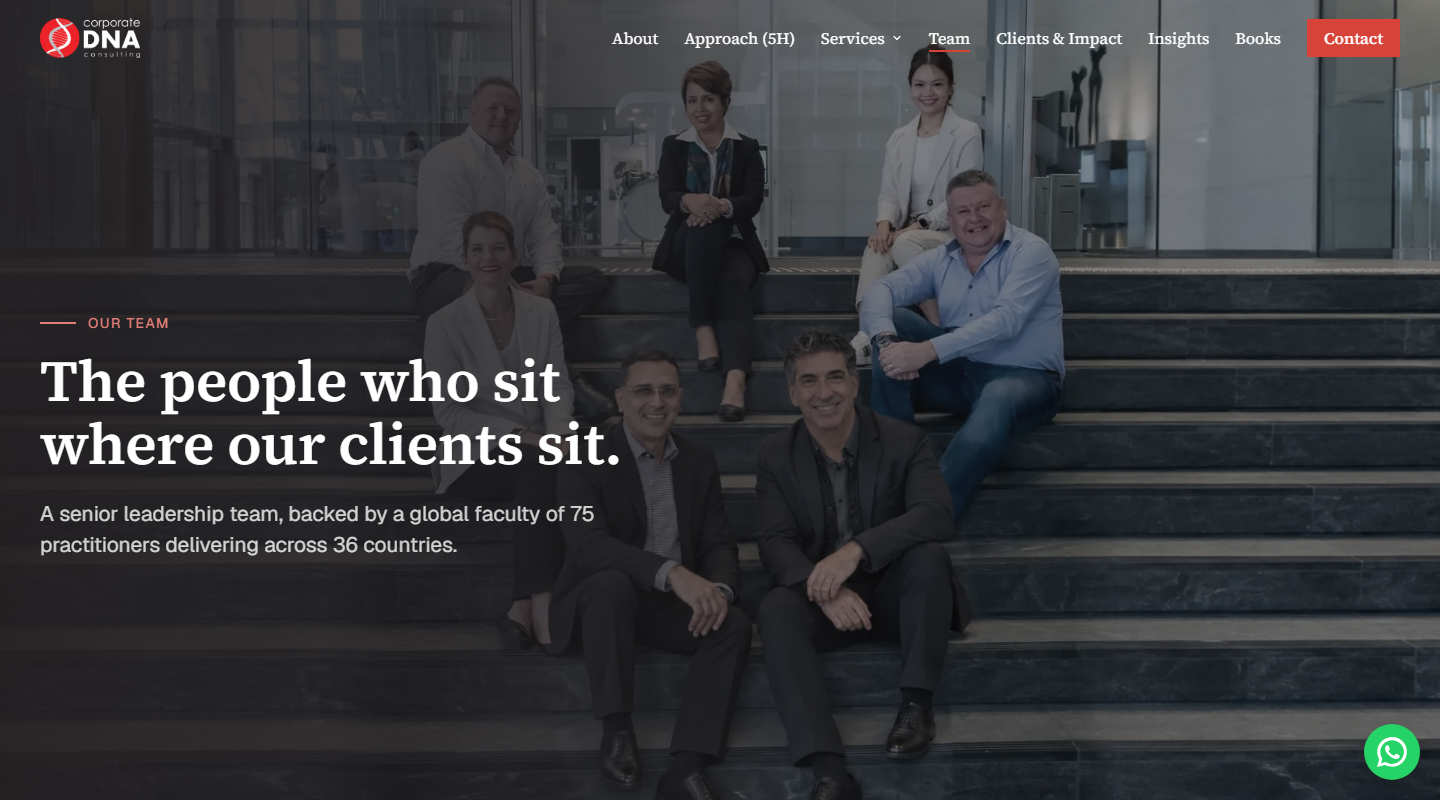
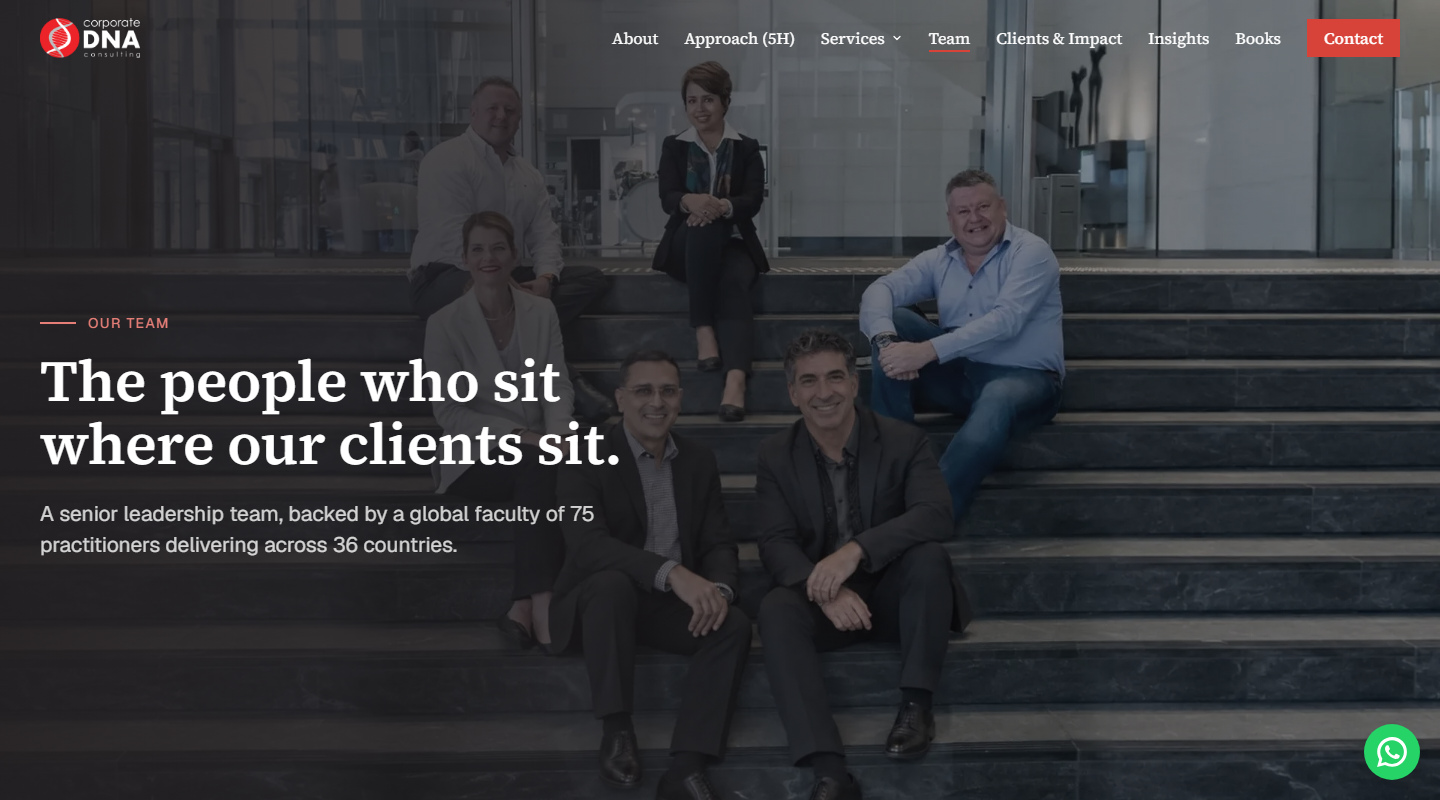
feat(team): o herói passa a ser o retoque com seis na escada
Segunda versão da mesma fotografia no mesmo dia: a pessoa do canto superior
direito saiu, e ficam seis.

⚠ ARQUIVO NOVO (`team-stairs-landscape-six.jpg`) EM VEZ DE SOBRESCREVER, mesma
decisão da foto da Heineken em 15-09. O `next/image` serve a imagem otimizada
por uma URL derivada do caminho e o CDN guarda aquela URL; trocar o conteúdo
mantendo o nome entrega a foto antiga por tempo indefinido — e é o tipo de
defeito que só aparece no celular de quem já visitou.

O `object-top` fica: a fileira de cima continua a 4% do topo do quadro, e é ela
que o `object-cover` come primeiro em janela de laptop. Conferido a 800 e a
700px de altura.

Claude-Session: https://claude.ai/code/session_01UdgHGboctzP9Q2jCqAS2CA

Changed region(s): [[0.5938, 0.0625, 0.6875, 0.375], [0.625, 0.375, 0.6562, 0.4062], [0.5938, 0.4062, 0.625, 0.4375]]

diff --git a/app/team/page.tsx b/app/team/page.tsx
@@ -7,7 +7,7 @@ import TypeLabel from "@/components/TypeLabel";
 import ImagePlaceholder from "@/components/ImagePlaceholder";
 import LeaderCard from "@/components/team/LeaderCard";
 import teamStanding from "@/public/team/team-standing.jpg";
-import teamHero from "@/public/team/team-stairs-landscape.jpg";
+import teamHero from "@/public/team/team-stairs-landscape-six.jpg";
 import { localeAlternates } from "@/lib/seo/alternates";
 import { editorialFontClass, editorialFontVars } from "@/lib/fonts";
 import { getPeople } from "@/lib/cms/map";
@@ -121,9 +121,17 @@ export default async function OurTeamPage() {
             (por que `none`, por que o `brightness` não é enfeite) mora agora nas
             props de lá. Repetir aqui só criaria dois lugares para ajustar. */}
         {/* ✅ HERÓI TROCADO EM 16-09 pela foto do time na escada EM LANDSCAPE
-            (`team-stairs-landscape.jpg`, 2400x1600) — a que o Guli ficou de
-            entregar na daily, e a primeira fotografia desta página com largura
-            de dobra de verdade.
+            (2400x1600) — a que o Guli ficou de entregar na daily, e a primeira
+            fotografia desta página com largura de dobra de verdade.
+
+            ⚠ SEGUNDA VERSÃO NO MESMO DIA: `…-landscape-six.jpg`, o retoque com
+            a pessoa do canto superior direito removida. Ficam SEIS na escada.
+
+            O ARQUIVO GANHOU NOME NOVO EM VEZ DE SER SOBRESCRITO, mesma decisão
+            da foto da Heineken em 15-09: o `next/image` serve a imagem otimizada
+            por uma URL derivada do caminho, e o CDN guarda aquela URL. Trocar o
+            conteúdo mantendo o nome entrega a foto antiga por tempo indefinido —
+            e é o tipo de defeito que só aparece no celular de quem já visitou.
 
             O PNG DE ORIGEM TEM 4,1 MB e virou JPEG q90 de 540 KB numa única
             compressão (`sharp`, mozjpeg), mesmo caminho do `skyline-dna.jpg`.
